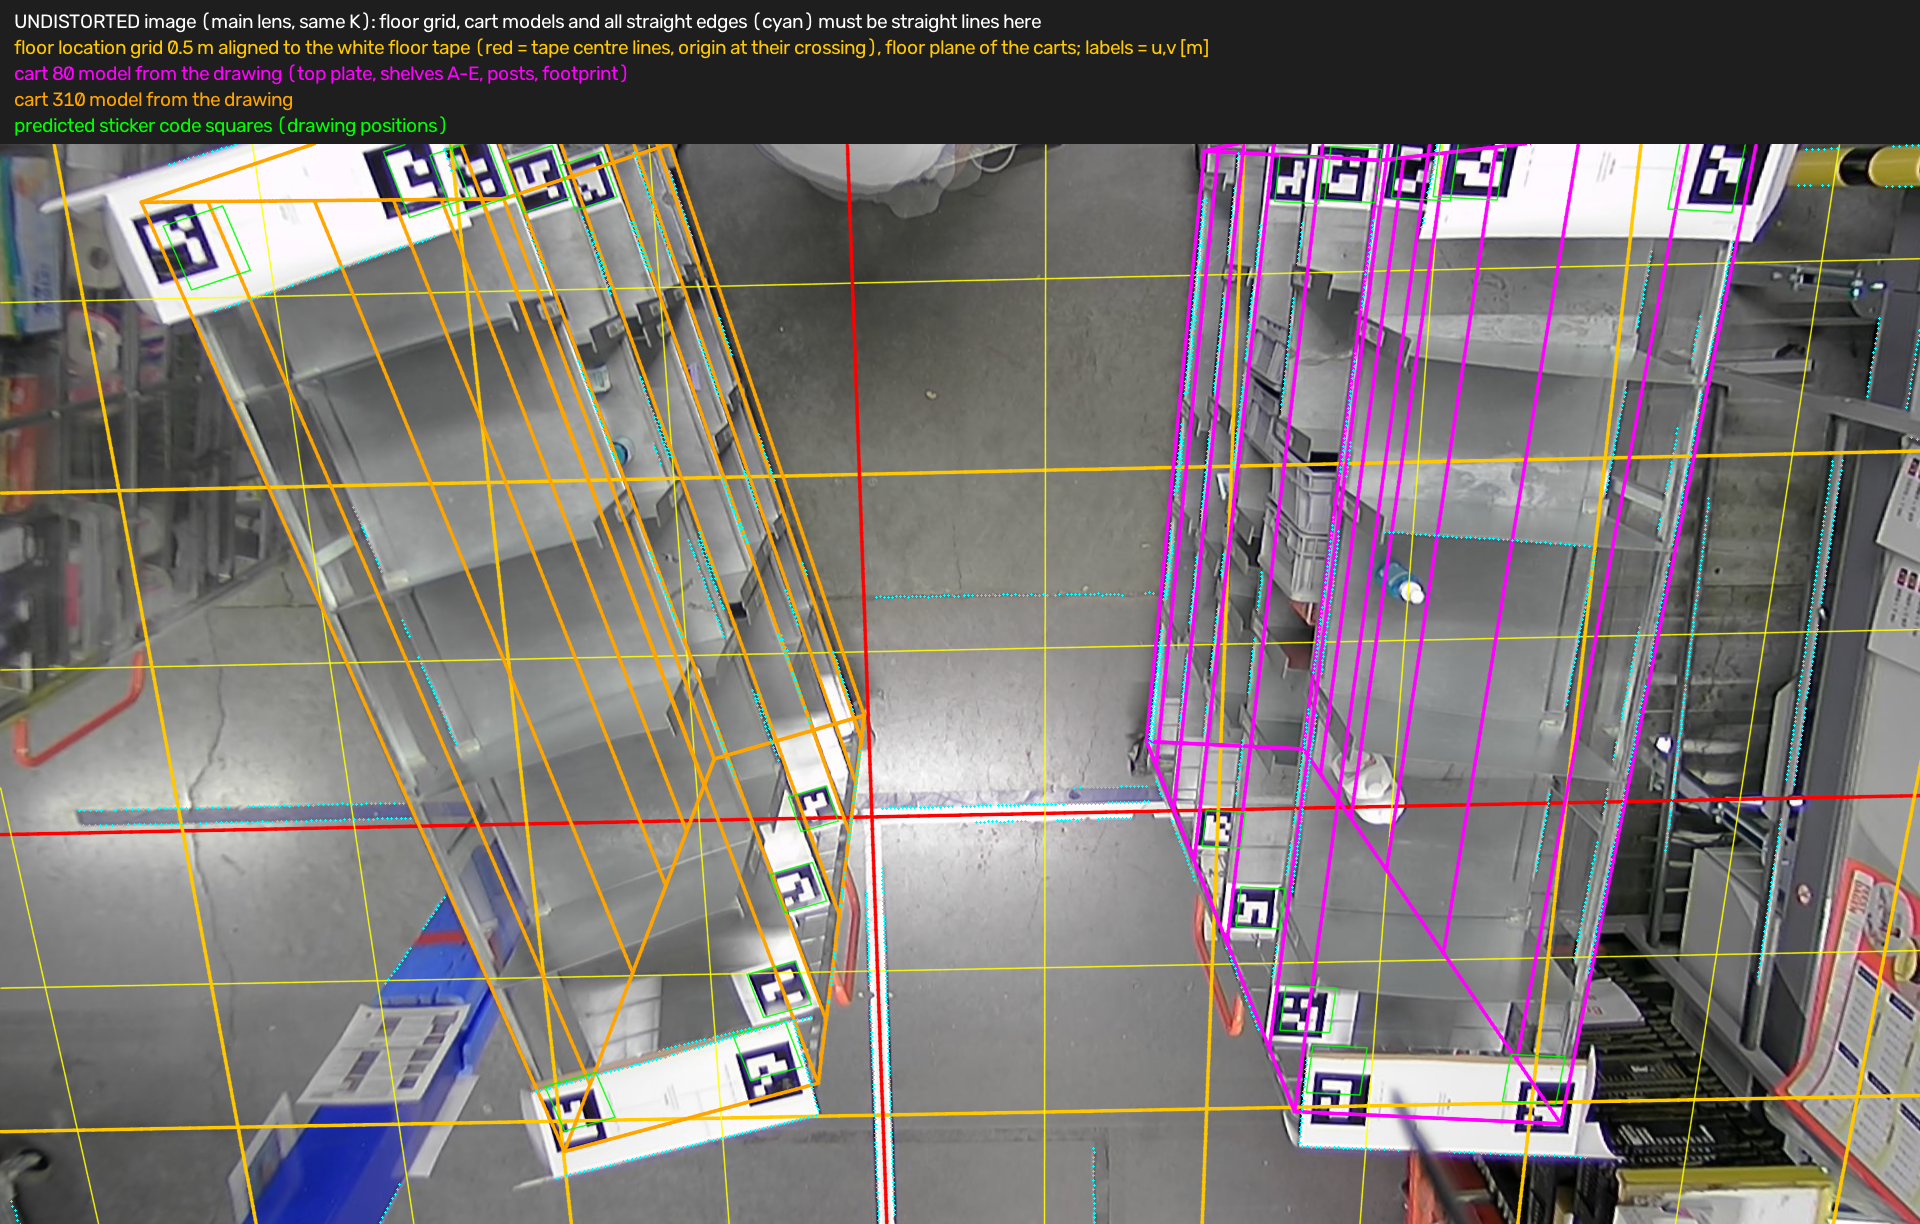
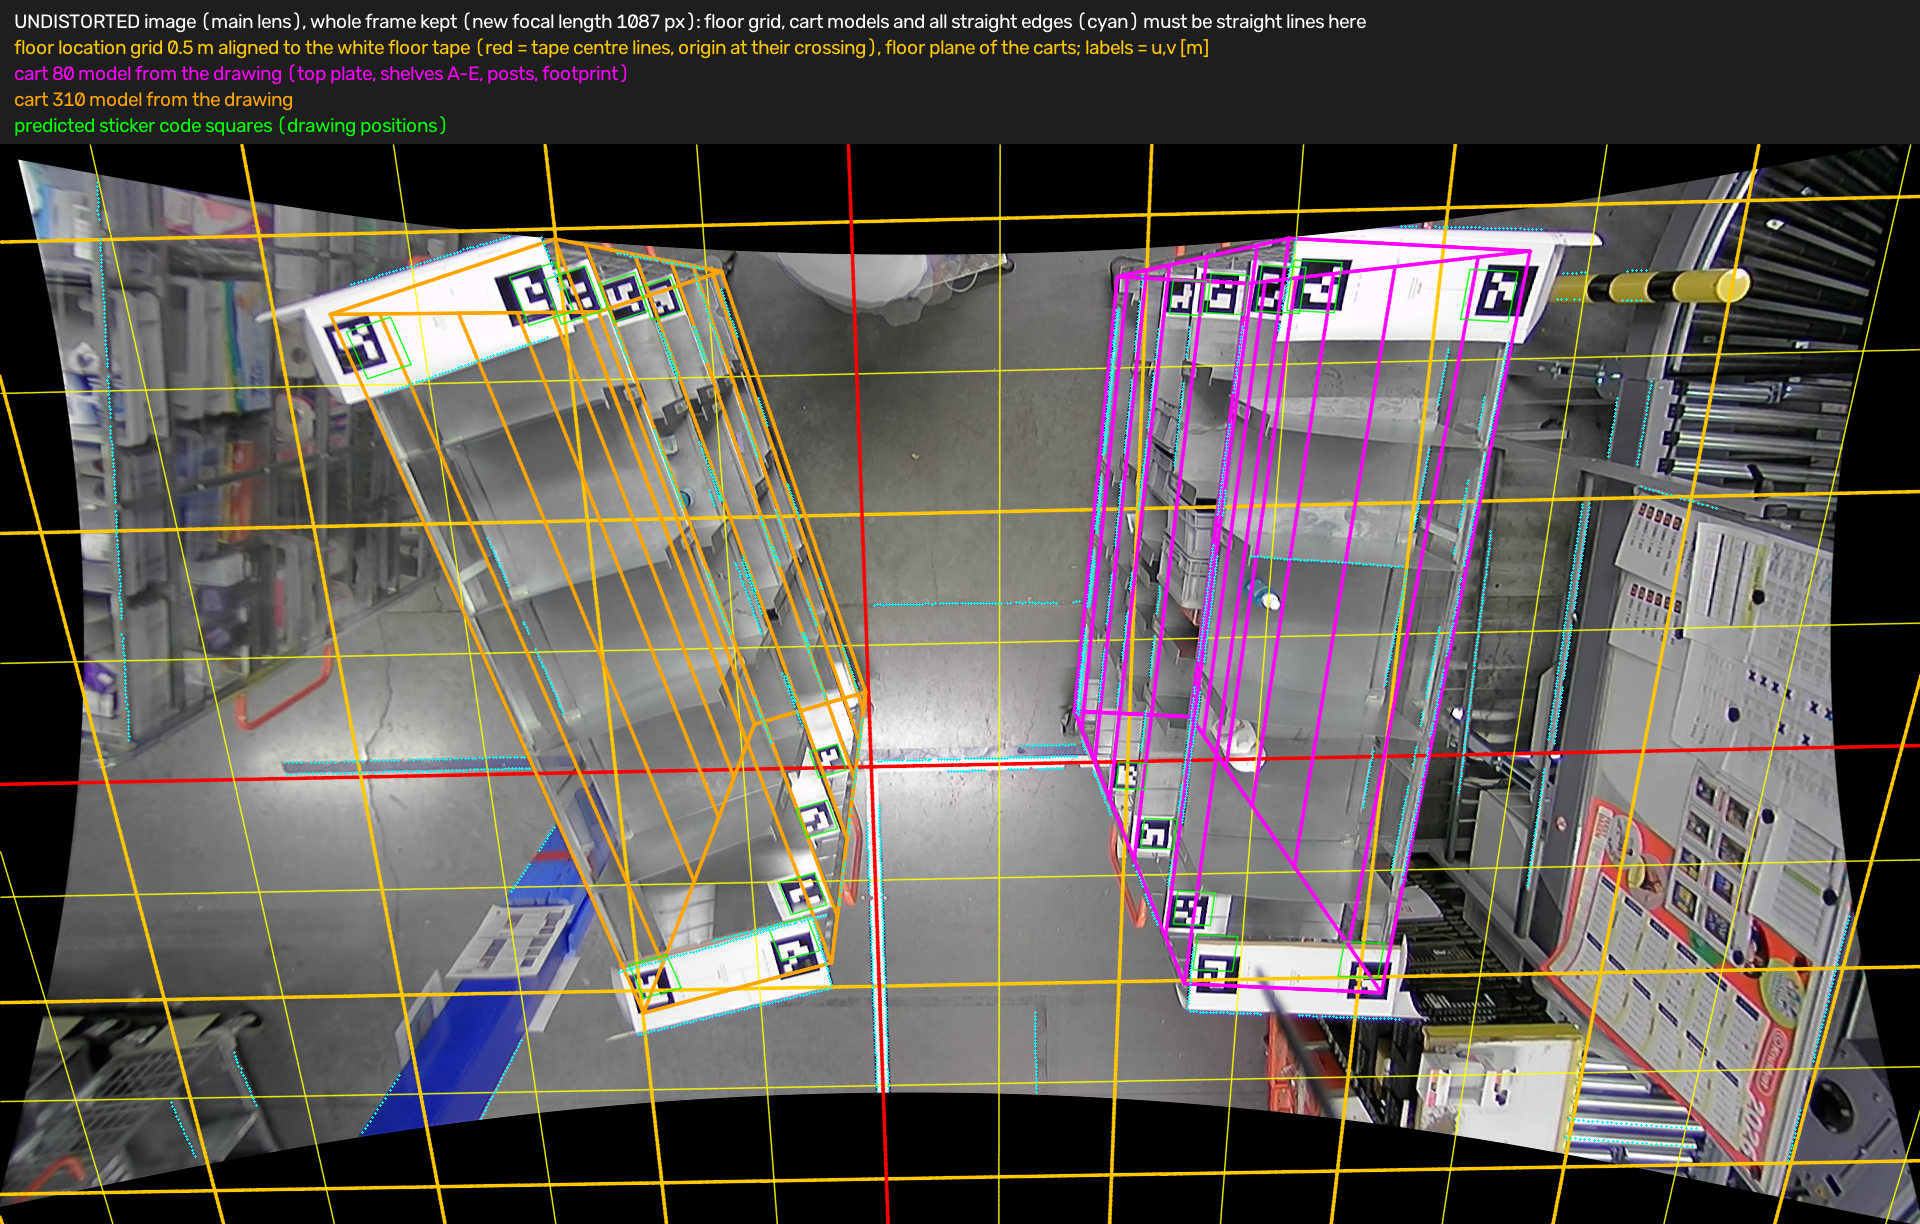
Visual check: proper point-to-curve residuals, full-frame undistorted view, crop labels; report 9.6 with the independent inspection results
Claude-Session: https://claude.ai/code/session_015LkhyKPUsEzjswhNb8GXHs

diff --git a/work/70_render_grid.py b/work/70_render_grid.py
@@ -35,6 +35,7 @@ CART = dict(w=1600.0, d=450.0)
 _cor = np.array([[0, 0], [W - 1, 0], [0, H - 1], [W - 1, H - 1]], float)
 _n = undistort_points(_cor, K, D)  # normalised undistorted coordinates
 R_LIM = 1.10 * float(np.max(np.hypot(_n[:, 0], _n[:, 1])))
+K_UND = cv2.getOptimalNewCameraMatrix(K, D, (W, H), 1.0, (W, H))[0]  # undistorted view that keeps the whole frame
 COL = {80: (255, 0, 255), 310: (0, 165, 255), "grid": (0, 255, 255), "grid_major": (0, 200, 255), "stk": (0, 255, 0),
        "line": (0, 0, 255), "pts": (255, 255, 0)}
 
@@ -55,7 +56,7 @@ def proj(Xc, cart, distort=True):
     if distort:
         uv = project(np.asarray(Xc, float).reshape(-1, 3), K, D, rvec=POSES[cart][:3], tvec=POSES[cart][3:])
     else:
-        uv = np.column_stack([K[0, 0] * xn + K[0, 2], K[1, 1] * yn + K[1, 2]])
+        uv = np.column_stack([K_UND[0, 0] * xn + K_UND[0, 2], K_UND[1, 1] * yn + K_UND[1, 2]])
     uv[~ok] = np.nan
     return uv
 
@@ -171,7 +172,7 @@ def draw_scene(img, distort=True, scale=1.0, off=(0, 0), th=1):
 def label_grid(img, distort=True):
     for x in np.arange(-5000, 5001, 1000):
         for y in np.arange(-6000, 6001, 1000):
-            uv = proj(tape_to_cart(np.array([x]), np.array([y])), 310, distort)[0]
+            uv = proj(tape_to_cart(np.array([x]), np.array([y])), 310, distort)[0]  # noqa
             if np.isfinite(uv).all() and 0 <= uv[0] < W and 0 <= uv[1] < H:
                 cv2.circle(img, (int(uv[0]), int(uv[1])), 4, COL["grid_major"], -1, cv2.LINE_AA)
                 cv2.putText(img, f"{x / 1000:+.0f},{y / 1000:+.0f}", (int(uv[0]) + 5, int(uv[1]) - 5), cv2.FONT_HERSHEY_SIMPLEX, 0.45, (0, 0, 0), 3, cv2.LINE_AA)
@@ -209,8 +210,15 @@ def line_extension(P, ext=1.2, n=600):
     rad = 1 + D[0] * r2 + D[1] * r2 ** 2 + D[4] * r2 ** 3
     uv = K[:2, 2] + K[0, 0] * xn * rad[:, None]
     uv[np.sqrt(r2) > R_LIM] = np.nan
-    # residual of the traced points to the distorted line (px): distance to the nearest curve sample
-    dd = np.min(np.linalg.norm(np.asarray(P, float)[:, None, :] - uv[None, np.isfinite(uv).all(1), :], axis=2), axis=1)
+    # residual of the traced points to the distorted line (px): perpendicular distance to the polyline segments
+    C = uv[np.isfinite(uv).all(1)]
+    A, B = C[:-1], C[1:]
+    AB = B - A
+    L2 = np.maximum(np.sum(AB ** 2, 1), 1e-12)
+    Pp = np.asarray(P, float)
+    tt = np.clip(np.einsum("pkd,kd->pk", Pp[:, None, :] - A[None], AB) / L2[None], 0, 1)
+    proj_ = A[None] + tt[..., None] * AB[None]
+    dd = np.min(np.linalg.norm(Pp[:, None, :] - proj_, axis=2), axis=1)
     return uv, float(np.sqrt(np.mean(dd ** 2))), float(np.max(dd))
 
 
@@ -238,15 +246,16 @@ def main():
              ("straight 3D line through them, drawn with the main lens and extended 1.2x its length on both sides", COL["line"])]
     cv2.imwrite(f"{RESULTS}/grid_lines.png", with_header(lines, LEG_L))
 
-    und = cv2.undistort(IMG, K, D, None, K)
+    und = cv2.undistort(IMG, K, D, None, K_UND)
     draw_scene(und, distort=False)
     for e in EDGES:
-        U = K[:2, 2] + K[0, 0] * undistort_points(np.asarray(e["points"], float), K, D)
+        U = K_UND[:2, 2] + K_UND[0, 0] * undistort_points(np.asarray(e["points"], float), K, D)
         for p in U[::2]:
             if 0 <= p[0] < W and 0 <= p[1] < H:
                 cv2.circle(und, (int(round(p[0])), int(round(p[1]))), 1, COL["pts"], -1)
-    cv2.imwrite(f"{RESULTS}/grid_undistorted.png", with_header(und, [("UNDISTORTED image (main lens, same K): floor grid, cart models and all "
-                                                                   "straight edges (cyan) must be straight lines here", (255, 255, 255))] + LEG_O[:4]))
+    cv2.imwrite(f"{RESULTS}/grid_undistorted.png", with_header(und, [("UNDISTORTED image (main lens), whole frame kept (new focal length "
+                                                                   f"{K_UND[0, 0]:.0f} px): floor grid, cart models and all straight edges (cyan) "
+                                                                   "must be straight lines here", (255, 255, 255))] + LEG_O[:4]))
     crops(over, lines, CROPS)
 
     st = np.array([s["rms"] for s in stats])
@@ -258,10 +267,10 @@ def main():
                    edge_line_residuals=stats), f"{CACHE}/grid_render.json")
 
 
-CROPS = [(200, 30, 520, 260, "cart 310, X0 end board (top plate)"), (470, 820, 440, 260, "cart 310, X1600 end board"),
+CROPS = [(200, 30, 520, 260, "cart 310, X1600 end board (top plate)"), (470, 820, 440, 260, "cart 310, X0 end board"),
          (1220, 0, 540, 180, "cart 80, X0 end board"), (1250, 840, 420, 240, "cart 80, X1600 end board"),
          (300, 170, 520, 400, "cart 310, shelf lips A-E"), (1150, 170, 520, 420, "cart 80, shelf lips A-E"),
-         (840, 600, 380, 480, "floor: white tape T-junction"), (0, 600, 560, 440, "floor: blue line, left"),
+         (840, 600, 380, 480, "floor: white tape L corner"), (0, 600, 560, 440, "floor: blue line, left"),
          (1600, 80, 320, 720, "scene verticals / rails, right edge"), (0, 0, 300, 640, "left edge: rack")]
 
 

diff --git a/work/REPORT_part_results.md b/work/REPORT_part_results.md
@@ -162,19 +162,36 @@ S hlavným objektívom a pózami vozíkov z hlavného fitu som do fotky vykresli
 * **drôtený model oboch vozíkov podľa výkresu** (vrchná doska, police A–E, stĺpiky, pôdorys) a predpovedané nálepky;
 * **predĺženia rovných hrán** (`results/grid_lines.png`): každou overenou hranou vedie priamka v 3D, ktorá je vykreslená
   cez objektív a predĺžená o 1,2-násobok dĺžky hrany na obe strany;
-* **obraz po odstránení skreslenia** s tou istou mriežkou (`results/grid_undistorted.png`) a zväčšené výrezy
-  (`results/grid_crops.png`).
+* **obraz po odstránení skreslenia** v celom rozsahu snímky s tou istou mriežkou (`results/grid_undistorted.png`)
+  a zväčšené výrezy (`results/grid_crops.png`).
 
-**Čo ukazuje vizuálna kontrola:**
-* Predĺžené rovné čiary ležia na hranách v celej dĺžke, aj pri silno zakrivených hranách na okrajoch obrazu. Príklady:
-  tyč regálu na ľavom okraji (~600 px), koľajnice a stĺpik vpravo, pásky na podlahe, lemy políc. Tam, kde hrana
-  pokračuje mimo sledovaného úseku (napríklad modrá čiara vľavo dole), predĺženie pokračuje presne po nej.
-  Odchýlka bodov hrany od krivky je v mediáne {{grid_line_med}} px, najviac {{grid_line_max}} px (vzorkovanie krivky pridáva ~0,3 px).
-* Os mriežky ide po bielej páske od kríženia až po spodný okraj obrazu. Priečna os ide po priečnej páske a vľavo
-  pokračuje rovnobežne s modrou čiarou. Mriežka sa k okrajom zakrivuje presne podľa skreslenia.
-* Model vozíkov z výkresu: lemy políc a stĺpiky sedia do ±5 px (lemy vozíka 80 v radoch B a E +9 px). Koncové dosky
-  (vrchná doska) sú mimo o 17–28 px a predpovedané top-nálepky o 5–15 px. Je to nesúlad geometrie z kap. 5, nie chyba
-  objektívu (rovné čiary v tých istých miestach sedia).
+**Čo ukazuje vizuálna kontrola** (vlastná kontrola výrezov a dve nezávislé kontroly celého obrazu po dlaždiciach;
+odchýlky merané kolmo na priamku, nie odhadom okom):
+* **Rovné čiary:** predĺžené priamky ležia na hranách v celej dĺžke, aj pri silno zakrivených hranách na okrajoch obrazu:
+  tyč regálu na ľavom okraji, koľajnice a stĺpik vpravo, pásky na podlahe, lemy políc. Odchýlka bodov hrany od krivky
+  je v mediáne {{grid_line_med}} px, najviac {{grid_line_max}} px. Zvyšok zakrivenia je pri 54 zo 61 hrán pod 0,5 px, najviac 0,8 px,
+  hoci objektív tie hrany ohýba až o 16 px (tyč regálu 16,3 px, zvyšok −0,02 px).
+* **Hrany, ktoré sa pri fite nepoužili:** ~150 ďalších rovných úsekov nájdených v obraze bez skreslenia, vrátane hrán pri
+  okraji obrazu (vzdialenosť 700–1050 px od hlavného bodu), sedí s predpovedaným ohybom do ±0,35 px.
+* **Predĺženie cez medzeru:** priamka vedená modrou čiarou vľavo (x 172–434) a predĺžená cez objektív o 450–700 px dopadne
+  na pokračovanie tej istej čiary za vozíkom 310 s odchýlkou 0,6–1,8 px. Bez korekcie skreslenia by minula o 15–18 px.
+  Objektívy nafitované len na nálepky (f ≈ 1330–1360, k1 ≈ −0,21) minú o 3–8 px a sú tým vylúčené. Rovnaký test so škárou
+  v podlahe je citlivý na cy: nula vychádza pri cy ≈ 510–525, hlavná hodnota 503 je v rámci neistoty ±29 px.
+* **Mriežka na podlahe:** os mriežky ide po stredovej čiare bielej pásky od rohu (L) po spodný okraj obrazu s odchýlkou
+  do 0,2 px. Priečna os ide po priečnej páske do 1,2 px. Hrany modrej čiary vľavo sú s mriežkou rovnobežné do 1 px na
+  240 px. Pomer bunky mriežky k šírke pásky je pozdĺž pásky stály (10,3–10,6).
+* **Model vozíkov z výkresu:**
+  - Lemy políc vozíka 310 sedia do 0–5 px.
+  - Vozík 80 je ako celok posunutý o 3–10 px: lemy aj nálepky na policiach vychádzajú posunuté rovnako, bez zvyšku
+    zakrivenia. Je to kompromis pózy tohto vozíka, ktorú ťahajú top-nálepky, nie chyba objektívu.
+  - Koncové dosky (vrchná doska) sú mimo o 15–30 px, rovnomerne po celej dĺžke.
+  - Predpovedané top-nálepky sú mimo o 9–26 px, všetky smerom od úbežníka stĺpikov. Susedné nálepky na tom istom mieste
+    obrazu sa líšia o 15–20 px, čo objektív spôsobiť nemôže.
+  - Toto je nesúlad geometrie z kap. 5, nie chyba objektívu.
+* **Čo sa overiť nedá:**
+  - Úplné rohy obrazu ďalej ako ~1050 px od hlavného bodu, kde nie je žiadna rovná štruktúra s merateľným ohybom.
+  - Model s k3 sedí na všetky hrany rovnako dobre a od hlavného sa tam líši o 6 px (r = 1100 px) až 17 px (krajný roh).
+  - Zobrazenie v krajných rohoch je teda extrapolácia.
 
 **Číselné kontroly, ktoré fit nevynucuje** (spätné premietnutie na podlahu, `work/cache/grid_checks.json`, citlivosť na f
 v `work/cache/grid_fsens.json`):
@@ -191,7 +208,7 @@ v `work/cache/grid_fsens.json`):
   (z vozíka 80).
 
 **Záver:** objektív so zobrazenými parametrami k obrazu vizuálne aj číselne sedí. Rovné čiary sú rovné v celom obraze
-vrátane okrajov, čo potvrdzuje skreslenie. Mriežka na podlahe drží tvar aj mierku pásky a pásky sú na seba kolmé.
+až po ~1050 px od hlavného bodu, čo potvrdzuje skreslenie. Mriežka na podlahe drží tvar aj mierku pásky a pásky sú na seba kolmé.
 Kontroly na podlahe však f nespresnia; ohnisko ostáva určené na ± {{sf0}} px (kap. 1). Viditeľné odchýlky sú na
 koncových doskách vozíkov a zodpovedajú známemu nesúladu geometrie s výkresom.
 

diff --git a/results/REPORT.md b/results/REPORT.md
@@ -603,19 +603,36 @@ S hlavným objektívom a pózami vozíkov z hlavného fitu som do fotky vykresli
 * **drôtený model oboch vozíkov podľa výkresu** (vrchná doska, police A–E, stĺpiky, pôdorys) a predpovedané nálepky;
 * **predĺženia rovných hrán** (`results/grid_lines.png`): každou overenou hranou vedie priamka v 3D, ktorá je vykreslená
   cez objektív a predĺžená o 1,2-násobok dĺžky hrany na obe strany;
-* **obraz po odstránení skreslenia** s tou istou mriežkou (`results/grid_undistorted.png`) a zväčšené výrezy
-  (`results/grid_crops.png`).
+* **obraz po odstránení skreslenia** v celom rozsahu snímky s tou istou mriežkou (`results/grid_undistorted.png`)
+  a zväčšené výrezy (`results/grid_crops.png`).
 
-**Čo ukazuje vizuálna kontrola:**
-* Predĺžené rovné čiary ležia na hranách v celej dĺžke, aj pri silno zakrivených hranách na okrajoch obrazu. Príklady:
-  tyč regálu na ľavom okraji (~600 px), koľajnice a stĺpik vpravo, pásky na podlahe, lemy políc. Tam, kde hrana
-  pokračuje mimo sledovaného úseku (napríklad modrá čiara vľavo dole), predĺženie pokračuje presne po nej.
-  Odchýlka bodov hrany od krivky je v mediáne 0,45 px, najviac 2,1 px (vzorkovanie krivky pridáva ~0,3 px).
-* Os mriežky ide po bielej páske od kríženia až po spodný okraj obrazu. Priečna os ide po priečnej páske a vľavo
-  pokračuje rovnobežne s modrou čiarou. Mriežka sa k okrajom zakrivuje presne podľa skreslenia.
-* Model vozíkov z výkresu: lemy políc a stĺpiky sedia do ±5 px (lemy vozíka 80 v radoch B a E +9 px). Koncové dosky
-  (vrchná doska) sú mimo o 17–28 px a predpovedané top-nálepky o 5–15 px. Je to nesúlad geometrie z kap. 5, nie chyba
-  objektívu (rovné čiary v tých istých miestach sedia).
+**Čo ukazuje vizuálna kontrola** (vlastná kontrola výrezov a dve nezávislé kontroly celého obrazu po dlaždiciach;
+odchýlky merané kolmo na priamku, nie odhadom okom):
+* **Rovné čiary:** predĺžené priamky ležia na hranách v celej dĺžke, aj pri silno zakrivených hranách na okrajoch obrazu:
+  tyč regálu na ľavom okraji, koľajnice a stĺpik vpravo, pásky na podlahe, lemy políc. Odchýlka bodov hrany od krivky
+  je v mediáne 0,19 px, najviac 1,1 px. Zvyšok zakrivenia je pri 54 zo 61 hrán pod 0,5 px, najviac 0,8 px,
+  hoci objektív tie hrany ohýba až o 16 px (tyč regálu 16,3 px, zvyšok −0,02 px).
+* **Hrany, ktoré sa pri fite nepoužili:** ~150 ďalších rovných úsekov nájdených v obraze bez skreslenia, vrátane hrán pri
+  okraji obrazu (vzdialenosť 700–1050 px od hlavného bodu), sedí s predpovedaným ohybom do ±0,35 px.
+* **Predĺženie cez medzeru:** priamka vedená modrou čiarou vľavo (x 172–434) a predĺžená cez objektív o 450–700 px dopadne
+  na pokračovanie tej istej čiary za vozíkom 310 s odchýlkou 0,6–1,8 px. Bez korekcie skreslenia by minula o 15–18 px.
+  Objektívy nafitované len na nálepky (f ≈ 1330–1360, k1 ≈ −0,21) minú o 3–8 px a sú tým vylúčené. Rovnaký test so škárou
+  v podlahe je citlivý na cy: nula vychádza pri cy ≈ 510–525, hlavná hodnota 503 je v rámci neistoty ±29 px.
+* **Mriežka na podlahe:** os mriežky ide po stredovej čiare bielej pásky od rohu (L) po spodný okraj obrazu s odchýlkou
+  do 0,2 px. Priečna os ide po priečnej páske do 1,2 px. Hrany modrej čiary vľavo sú s mriežkou rovnobežné do 1 px na
+  240 px. Pomer bunky mriežky k šírke pásky je pozdĺž pásky stály (10,3–10,6).
+* **Model vozíkov z výkresu:**
+  - Lemy políc vozíka 310 sedia do 0–5 px.
+  - Vozík 80 je ako celok posunutý o 3–10 px: lemy aj nálepky na policiach vychádzajú posunuté rovnako, bez zvyšku
+    zakrivenia. Je to kompromis pózy tohto vozíka, ktorú ťahajú top-nálepky, nie chyba objektívu.
+  - Koncové dosky (vrchná doska) sú mimo o 15–30 px, rovnomerne po celej dĺžke.
+  - Predpovedané top-nálepky sú mimo o 9–26 px, všetky smerom od úbežníka stĺpikov. Susedné nálepky na tom istom mieste
+    obrazu sa líšia o 15–20 px, čo objektív spôsobiť nemôže.
+  - Toto je nesúlad geometrie z kap. 5, nie chyba objektívu.
+* **Čo sa overiť nedá:**
+  - Úplné rohy obrazu ďalej ako ~1050 px od hlavného bodu, kde nie je žiadna rovná štruktúra s merateľným ohybom.
+  - Model s k3 sedí na všetky hrany rovnako dobre a od hlavného sa tam líši o 6 px (r = 1100 px) až 17 px (krajný roh).
+  - Zobrazenie v krajných rohoch je teda extrapolácia.
 
 **Číselné kontroly, ktoré fit nevynucuje** (spätné premietnutie na podlahu, `work/cache/grid_checks.json`, citlivosť na f
 v `work/cache/grid_fsens.json`):
@@ -632,7 +649,7 @@ v `work/cache/grid_fsens.json`):
   (z vozíka 80).
 
 **Záver:** objektív so zobrazenými parametrami k obrazu vizuálne aj číselne sedí. Rovné čiary sú rovné v celom obraze
-vrátane okrajov, čo potvrdzuje skreslenie. Mriežka na podlahe drží tvar aj mierku pásky a pásky sú na seba kolmé.
+až po ~1050 px od hlavného bodu, čo potvrdzuje skreslenie. Mriežka na podlahe drží tvar aj mierku pásky a pásky sú na seba kolmé.
 Kontroly na podlahe však f nespresnia; ohnisko ostáva určené na ± 47 px (kap. 1). Viditeľné odchýlky sú na
 koncových doskách vozíkov a zodpovedajú známemu nesúladu geometrie s výkresom.
 
